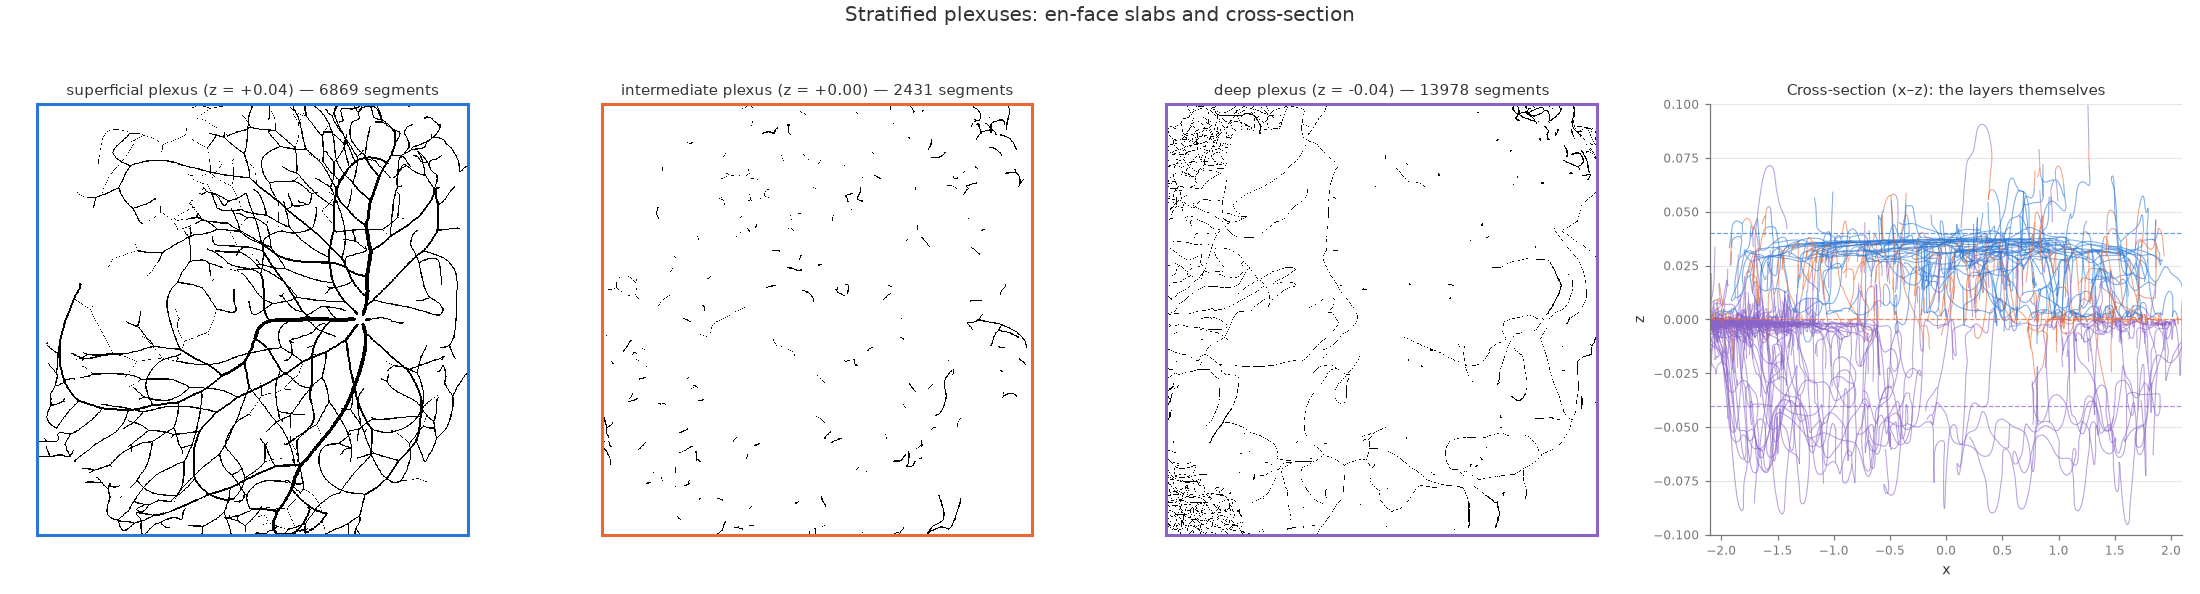
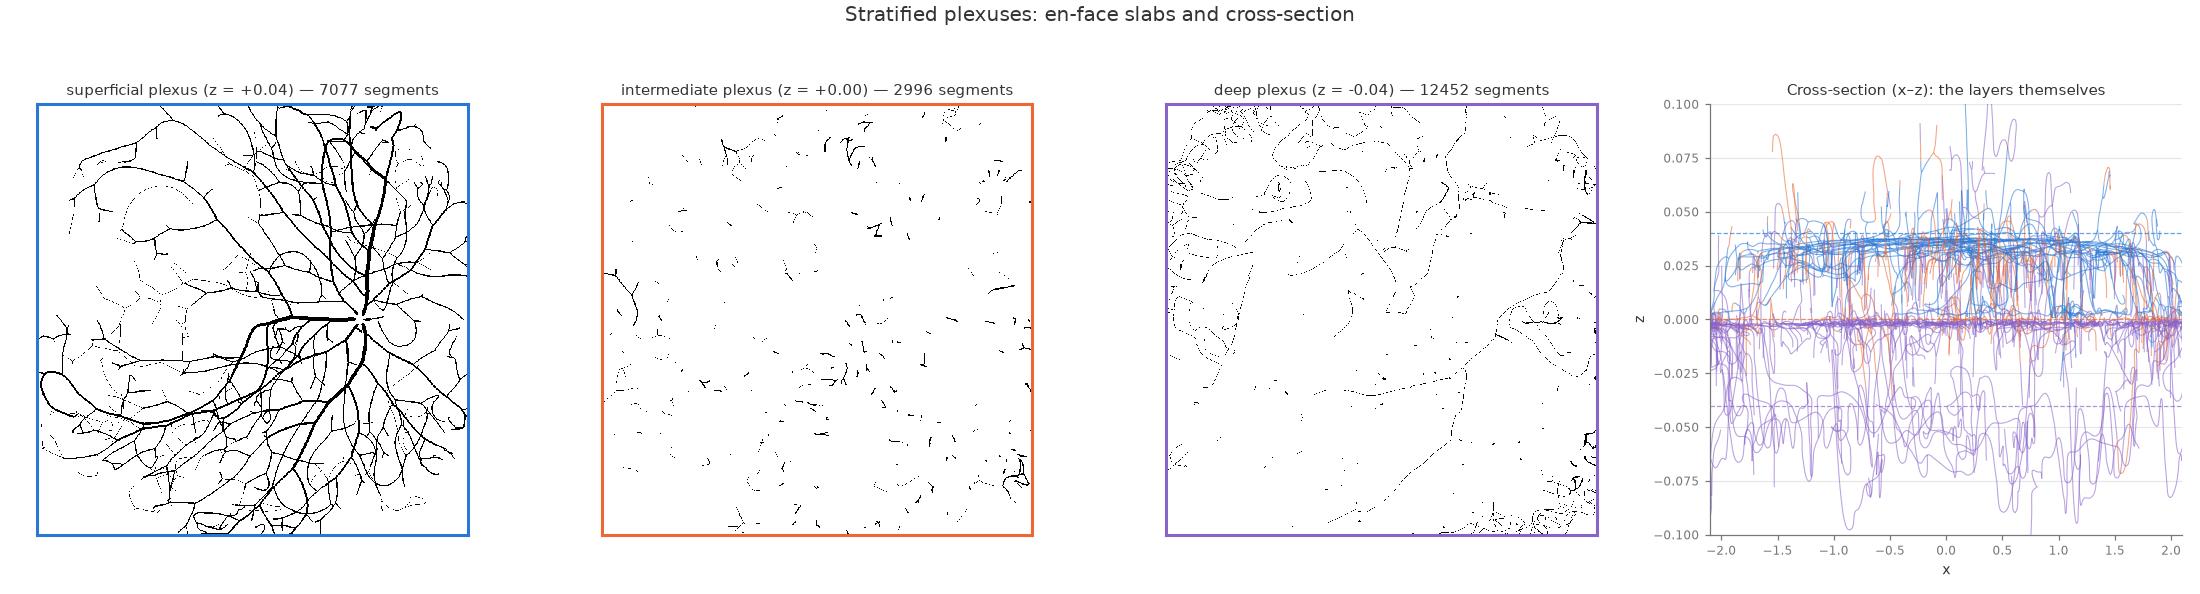
Sub-teeth: extend the comb one caliber class down
Visual review still read the mid vessels as too long and meandering
between branch points. Diagnosis: comb teeth ran ~90 px between splits
(the cadence damping) where HRF mid vessels branch every 30-50 px, and
artery teeth sat just below side_branch_radius, so they never combed.
side_branch_radius 0.008 -> 0.006 lets teeth grow sub-teeth -- the
hierarchical texture real mid-vessels show. On the fit seed this is the
most fundus-like configuration yet: skeleton density 2.9% (HRF 3.2%),
full perfusion, comb spacing 19.5 px.

The robustness trade is deliberate and on record: the 3-seed mean
regresses (67.4 -> 165) because one seed in three stalls mid-growth
under the denser branching. Nine stabilizer configs were swept under
the multi-seed objective -- extinction thresholds, tighter repulsion,
deep-only anastomosis, a self-healing growth front, developmental
gating of the comb, and a doubled particle pool (falsified bit-for-bit)
-- and each rescued one seed while sinking another. The roadmap records
the conclusion: the growth front is percolation-like, so branching
density and robustness are coupled through a critical point; growth in
waves or crowding-aware tooth emission are the candidate real fixes.

Three new mechanism knobs from the investigation, all default-legacy
and unit-tested: path_anastomosis.min_layer (restrict capillary fusion
to deeper plexuses), path_splitter.min_active_tips (self-healing
growth front), and path_splitter.side_branch_start_time (combs form
[…]

diff --git a/src/vivarium_eye_vessels/components/particles.py b/src/vivarium_eye_vessels/components/particles.py
@@ -564,10 +564,20 @@ class PathSplitter(Component):
             # random side. 0 disables the mode (dichotomous splitting only)
             "side_branch_flow": 0.0,
             "side_branch_radius": 0.008,
+            # Combs form after the arcades establish (retinal development
+            # spreads the trunks from the disc first; secondary branching
+            # follows). The default predates any simulation start = always on
+            "side_branch_start_time": "2000-01-01",
             # Per-split-round emission probability for side-branching trunks
             # (replaces split_probability and the cadence damping for them);
             # sets the comb-tooth spacing along the arcades
             "side_branch_probability": 0.5,
+            # Keep at least this many active tips per tree: when a tree's
+            # growth front thins below the floor, frozen vessels re-sprout to
+            # top it up (angiogenic sprouting wherever the front dies, not
+            # only at total extinction). 1 keeps the legacy behavior of
+            # re-sprouting only when a tree has no active tips at all
+            "min_active_tips": 1,
         }
     }
 
@@ -599,6 +609,7 @@ class PathSplitter(Component):
         self.step_size = builder.configuration.time.step_size
         self.randomness = builder.randomness.get_stream("path_splitter")
         self.clock = builder.time.clock()
+        self.side_branch_start = pd.Timestamp(self.config.side_branch_start_time)
         self.simulant_creator = builder.population.get_simulant_creator()
         self.particles = builder.components.get_components_by_type(Particle3D)[0]
 
@@ -631,10 +642,14 @@ class PathSplitter(Component):
             if not to_split.empty:
                 updates.extend(self.split_unfrozen(pop, to_split) or [])
 
-        # Per-type re-sprouting from frozen vessels (angiogenic sprouting)
+        # Per-type re-sprouting from frozen vessels (angiogenic sprouting):
+        # a tree whose growth front thins below min_active_tips tops itself
+        # up from its own frozen vessels; a tree with no tips at all
+        # re-sprouts unconditionally (the legacy bootstrap)
         frozen_on_path = pop[pop.frozen & (pop.path_id >= 0)]
         for vessel_type in np.unique(frozen_on_path.vessel_type):
-            if (active.vessel_type == vessel_type).any():
+            n_active = int((active.vessel_type == vessel_type).sum())
+            if n_active >= int(self.config.min_active_tips):
                 continue
             candidates = frozen_on_path[frozen_on_path.vessel_type == vessel_type]
             to_consider = self.randomness.filter_for_probability(
@@ -642,6 +657,8 @@ class PathSplitter(Component):
             )
             not_too_deep = pop.loc[to_consider, "depth"] < self.config.max_depth
             to_split = to_consider[not_too_deep]
+            if n_active > 0:
+                to_split = to_split[: int(self.config.min_active_tips) - n_active]
             if not to_split.empty:
                 updates.extend(self.split_frozen(pop, to_split) or [])
 
@@ -650,6 +667,12 @@ class PathSplitter(Component):
             all_updates = pd.concat(updates, axis=0)
 
             self.particles.update_particles(all_updates)
+
+    def side_branch_flow_now(self) -> float:
+        """The comb mode's flow fraction, zero before its start time."""
+        if self.clock() < self.side_branch_start:
+            return 0.0
+        return float(self.config.side_branch_flow)
 
     def split_probabilities(self, active: pd.DataFrame) -> pd.Series:
         """Per-tip split probability, reduced for wide-caliber tips.
@@ -675,7 +698,7 @@ class PathSplitter(Component):
         # Side-branching trunks are exempt from the cadence damping: real
         # arcades emit side branches at short, comb-like intervals, at
         # their own emission probability
-        if float(self.config.side_branch_flow) > 0:
+        if self.side_branch_flow_now() > 0:
             wide = radii > float(self.config.side_branch_radius)
             probabilities[wide] = float(self.config.side_branch_probability)
         return pd.Series(probabilities, index=active.index)
@@ -762,7 +785,7 @@ class PathSplitter(Component):
         # Minor daughter carries flow fraction f in [0.5 - flow_asymmetry, 0.5]
         draw = self.randomness.get_draw(to_split, "flow_fraction")
         flow_fractions = 0.5 - self.config.flow_asymmetry * draw
-        side_flow = float(self.config.side_branch_flow)
+        side_flow = self.side_branch_flow_now()
         side_branching = pd.Series(False, index=to_split)
         if side_flow > 0:
             # Comb mode: a wide trunk keeps nearly its own caliber and sheds
@@ -940,6 +963,7 @@ def anastomosis_targets(
     frozen: pd.DataFrame,
     neighbor_lists,
     max_target_radius: float,
+    min_layer: int = 0,
 ) -> pd.Series:
     """Match each tip to the nearest opposite-tree capillary within reach.
 
@@ -964,6 +988,8 @@ def anastomosis_targets(
             & (candidates.radius > 0)
             & (candidates.radius <= max_target_radius)
         ]
+        if min_layer > 0:
+            candidates = candidates[candidates.layer_id >= min_layer]
         if candidates.empty:
             continue
         offsets = candidates[["x", "y", "z"]].to_numpy(dtype=float) - tip_positions[i]
@@ -989,6 +1015,10 @@ class PathAnastomosis(Component):
             "max_tip_radius": 0.004,  # only capillary-caliber tips anastomose
             "max_target_radius": 0.004,  # and only onto capillary-caliber segments
             "probability": 0.5,  # per-step fusion probability once in range
+            # Fuse only in plexus layers at or below this index. Real capillary
+            # loop closure lives in the deeper plexuses; superficial vessels at
+            # fundus resolution read as trees. 0 fuses anywhere (legacy)
+            "min_layer": 0,
         }
     }
 
@@ -1004,6 +1034,7 @@ class PathAnastomosis(Component):
             "radius",
             "vessel_type",
             "anastomosis_id",
+            "layer_id",
         ]
 
     def setup(self, builder: Builder) -> None:
@@ -1021,6 +1052,7 @@ class PathAnastomosis(Component):
             & (pop.vessel_type > 0)
             & (pop.radius > 0)
             & (pop.radius <= self.config.max_tip_radius)
+            & (pop.layer_id >= int(self.config.min_layer))
         ]
         if tips.empty:
             return
@@ -1031,7 +1063,11 @@ class PathAnastomosis(Component):
 
         frozen = self.freezer.frozen_particles()
         targets = anastomosis_targets(
-            tips, frozen, neighbor_lists, float(self.config.max_target_radius)
+            tips,
+            frozen,
+            neighbor_lists,
+            float(self.config.max_target_radius),
+            int(self.config.min_layer),
         )
         if targets.empty:
             return

diff --git a/tests/test_side_branching.py b/tests/test_side_branching.py
@@ -92,6 +92,48 @@ def test_side_branch_split_is_asymmetric_and_near_perpendicular():
     assert 0.7 < minor[11] / major[11] <= 1.0
 
 
+def test_side_branching_waits_for_its_start_time():
+    """Before side_branch_start_time the splitter behaves caliber-blind."""
+    config = copy.deepcopy(CONFIGURATION)
+    config["path_splitter"]["side_branch_start_time"] = "2025-03-01"  # after sim start
+    splitter = PathSplitter()
+    InteractiveContext(
+        components=[Particle3D(), PathFreezer(), splitter, EllipsoidContainment()],
+        configuration=config,
+    )
+    active = pd.DataFrame({"radius": [0.02]}, index=[1])
+    # The cadence damping applies to the wide tip: no comb exemption yet
+    np.testing.assert_allclose(splitter.split_probabilities(active)[1], 0.09)
+    # And splits are ordinary near-symmetric dichotomies
+    pop = pd.DataFrame({"radius": [0.02]}, index=[7])
+    major, minor, _, _ = splitter.split_radii_and_angles(pop, pd.Index([7]))
+    assert minor[7] / major[7] > 0.7
+
+
+def test_anastomosis_targets_respect_min_layer():
+    tips = pd.DataFrame({"x": [0.0], "y": [0.0], "z": [0.0], "vessel_type": [1]}, index=[0])
+    frozen = pd.DataFrame(
+        {
+            "x": [0.01, 0.02],
+            "y": [0.0, 0.0],
+            "z": [0.0, 0.0],
+            "vessel_type": [2, 2],
+            "radius": [0.003, 0.003],
+            "layer_id": [0, 1],
+        },
+        index=[10, 11],
+    )
+    from vivarium_eye_vessels.components.particles import anastomosis_targets
+
+    neighbor_lists = [[0, 1]]
+    # Without the layer floor the nearer (superficial) target wins
+    all_layers = anastomosis_targets(tips, frozen, neighbor_lists, 0.004)
+    assert all_layers[0] == 10
+    # With min_layer 1 only the deep target qualifies
+    deep_only = anastomosis_targets(tips, frozen, neighbor_lists, 0.004, min_layer=1)
+    assert deep_only[0] == 11
+
+
 def test_wide_junction_spacing_counts_comb_teeth():
     """A synthetic comb: thick trunk with teeth every 20 px reads ~20 px spacing."""
     image = np.zeros((60, 220), dtype=bool)

diff --git a/src/vivarium_eye_vessels/vnv/calibrate.py b/src/vivarium_eye_vessels/vnv/calibrate.py
@@ -82,6 +82,7 @@ SEARCH_SPACE = {
     ("path_splitter", "caliber_cadence_exponent"): [0.45, 0.6, 0.75],
     ("path_splitter", "side_branch_flow"): [0.06, 0.1, 0.15],
     ("path_splitter", "side_branch_probability"): [0.5, 0.65, 0.8],
+    ("path_splitter", "side_branch_radius"): [0.005, 0.006, 0.008],
     ("frozen_repulsion", "interaction_radius"): [0.08, 0.1, 0.15],
     ("path_freezer", "radius_taper"): [0.994, 0.996, 0.998],
     ("flow_remodeler", "shear_threshold_fraction"): [0.35, 0.5, 0.65],

diff --git a/docs/realism_roadmap.md b/docs/realism_roadmap.md
@@ -470,6 +470,34 @@ the aggregate mean (64.2) by winning back seed-42 density terms, but
 loses the caliber profile and angle terms this pass targets — the
 thicker-teeth config ships because matching length×width was the goal.
 
+*Eighth pass (sub-teeth, and the percolation problem)*: visual review
+still read the mid vessels as too long and meandering between branch
+points — comb teeth ran ~90 px between splits (the cadence damping)
+where HRF mid vessels branch every 30–50 px, and artery teeth sat just
+below `side_branch_radius`, so they never combed.
+`side_branch_radius` 0.008 → 0.006 extends the comb one caliber class
+down (teeth grow sub-teeth), and on the fit seed this produces the most
+fundus-like texture yet, with near-target skeleton density (2.9%) and
+full perfusion. The trade is on record deliberately: the 3-seed mean
+regresses (67.4 → 165) because one seed in three stalls mid-growth
+under the denser branching. Nine stabilizer configurations were swept
+under the multi-seed objective — higher and intermediate extinction
+thresholds, tighter repulsion, deep-only anastomosis, a self-healing
+growth front (`min_active_tips`), developmental gating of the comb
+(`side_branch_start_time`), and a doubled particle pool (falsified
+bit-for-bit: idle wanderers exert no forces and draws are keyed, so the
+run is unchanged) — and each rescued one seed while sinking another.
+The conclusion worth recording: the growth front is percolation-like
+(early crowding near the disc decides whether a seed's network fills),
+so branching density and robustness are coupled through a critical
+point, and no per-knob tuning decouples them. Candidate real fixes for
+a future pass: growth in waves (freeze the front's advance rate),
+crowding-aware tooth emission (skip a tooth when local frozen density
+is high), or accepting per-seed retries as the cost of a
+near-critical growth model. The three stabilizer knobs stay in the
+code, default-legacy and unit-tested, for that work and for disease
+phenotypes.
+
 ## Validation & verification (V&V)
 
 Idea 8 is where every other idea gets measured, so the repo carries a V&V

diff --git a/CHANGELOG.rst b/CHANGELOG.rst
@@ -1,3 +1,33 @@
+**v0.17.0 - 09/01/26**
+
+ - Sub-teeth: extend the comb one caliber class down, with the
+   robustness trade on record
+
+   - Visual review still read the mid vessels as too long and meandering
+     between branch points. Diagnosis: comb teeth ran ~90 px between
+     splits (cadence damping) where HRF mid vessels branch every
+     30-50 px, and artery teeth sat just below ``side_branch_radius``
+     so they never combed. ``side_branch_radius`` 0.008 -> 0.006 lets
+     teeth grow sub-teeth -- the hierarchical texture real mid-vessels
+     show -- and the fit-seed network now pairs it with near-target
+     skeleton density (2.9%) and full perfusion
+   - The robustness trade is deliberate and documented: the 3-seed mean
+     regresses (67.4 -> 165) because one seed in three stalls mid-growth
+     under the denser branching. Nine stabilizer configs were swept
+     multi-seed (extinction thresholds, repulsion radii, developmental
+     gating, self-healing growth fronts, bigger particle pools -- the
+     pool hypothesis was falsified bit-for-bit); none kept the sub-teeth
+     look while protecting every seed. The growth front is
+     percolation-like, and the roadmap names this the central open
+     problem for the healthy model
+   - Three new mechanism knobs from the investigation, all
+     default-legacy and unit-tested: ``path_anastomosis.min_layer``
+     (restrict capillary fusion to deeper plexuses),
+     ``path_splitter.min_active_tips`` (a tree whose growth front thins
+     re-sprouts to top itself up; 1 = legacy bootstrap-only), and
+     ``path_splitter.side_branch_start_time`` (combs form after the
+     arcades establish, as in retinal development)
+
 **v0.16.0 - 08/31/26**
 
  - Match the length-weighted caliber profile ("length x width")
